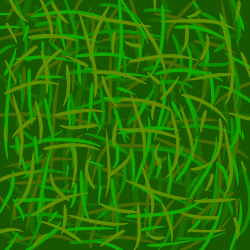
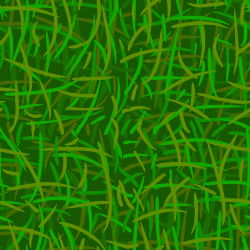
v0.0.0.1.7.20

diff --git a/style.css b/style.css
@@ -161,8 +161,15 @@ footer {
 .grass{
     position: absolute;
     /* border: 1px black solid; */
-    background: url(img/brick.png);
-    background-size: contain;
+    background: url(img/grass.png);
+    background-size: 50px;
+    background-repeat: repeat;
+}
+.stone_path{
+    position: absolute;
+    /* border: 1px black solid; */
+    background: url(img/stone_path.png);
+    /* background-size: 50px; */
     background-repeat: repeat;
 }
 #body{
